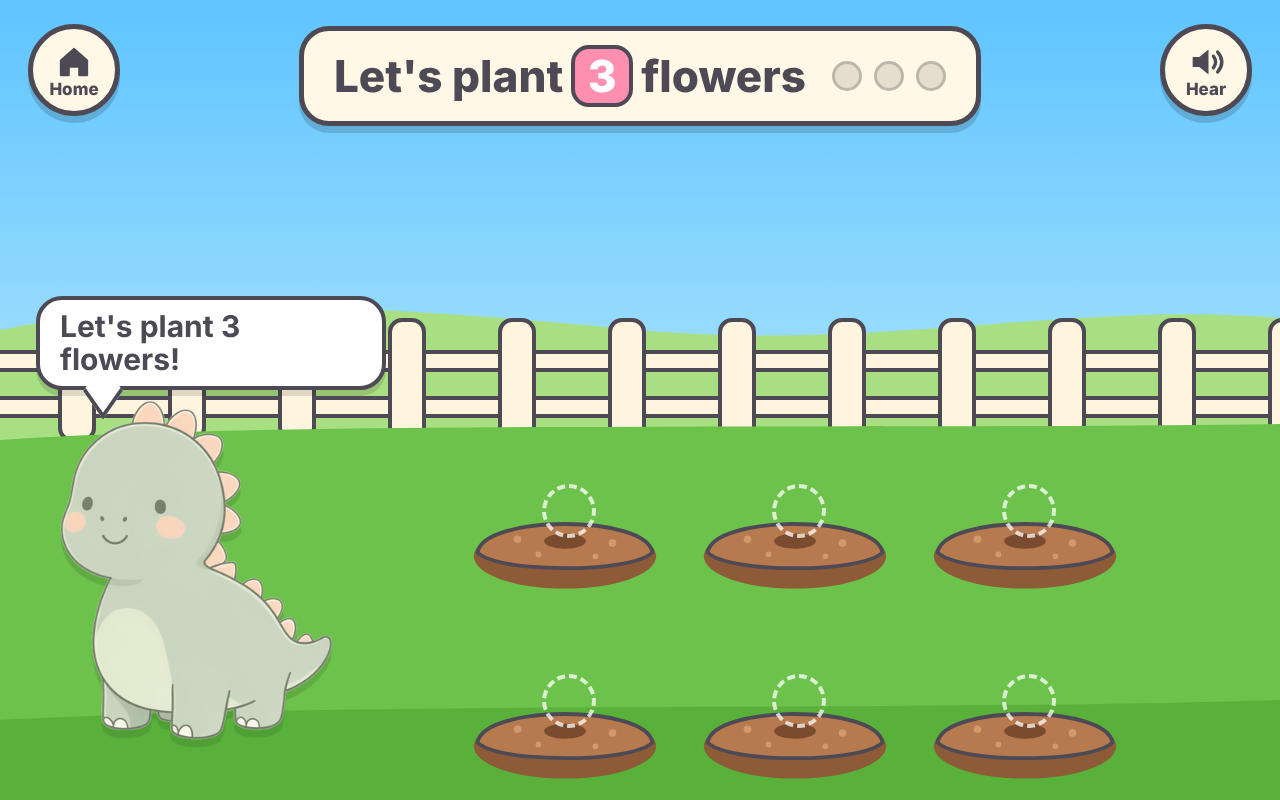
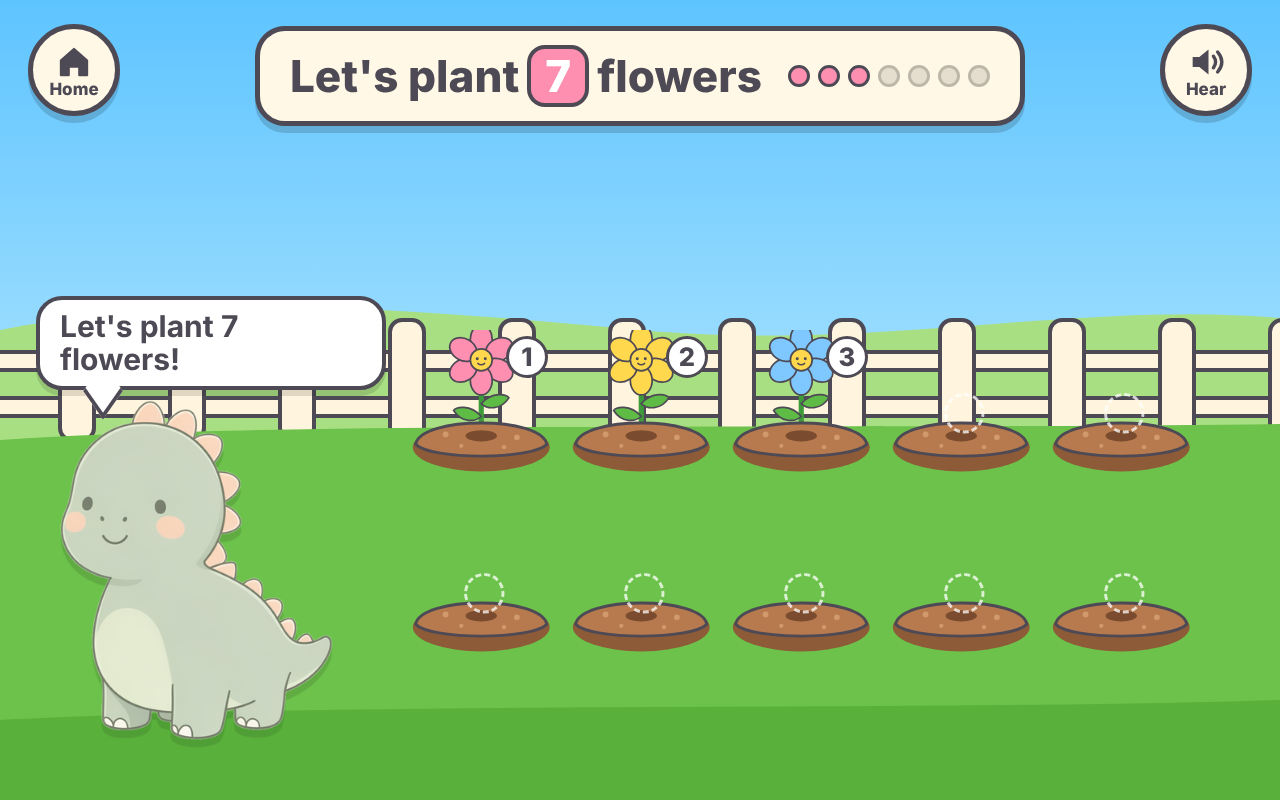
Calm Crew 0.4.0: levels, Pattern Path, Echo Shop recording, new screenshots LJT
Claude-Session: https://claude.ai/code/session_017GQ2EauvXWX61BA2wqAQ97

diff --git a/calm-crew/index.html b/calm-crew/index.html
@@ -30,20 +30,21 @@
     <section class="hero">
       <div class="app-head">
         <img class="app-icon" src="../assets/apps/calm-crew.png" alt="" width="76" height="76">
-        <div><span class="badge">Version 0.3.0 · Android</span></div>
+        <div><span class="badge">Version 0.4.0 · Android</span></div>
       </div>
       <h1>Calm Crew</h1>
-      <p class="lead">A calm, sensory-friendly learning app for children on the autism spectrum, and for any child who likes a calm pace. Pip, Mochi and Tocky guide short activities in counting, spelling, speech, calming down and the day's routine.</p>
+      <p class="lead">A calm, sensory-friendly learning app for children on the autism spectrum, and for any child who likes a calm pace. Pip, Mochi and Tocky guide short activities in counting, patterns, spelling, speech, calming down and the day's routine.</p>
       <div class="buttons">
         <a class="btn primary" href="https://drive.google.com/drive/folders/1st54mq-C1MLj0puG_kujj8EophPT99qO?usp=sharing">Download folder</a>
         <a class="btn" href="changelog.html">What's new</a>
       </div>
-      <p class="muted">Version 0.3.0 is the first test version. Android, made for tablets held sideways · Free, no ads, nothing to buy · No account needed</p>
+      <p class="muted">Version 0.4.0 adds levels, a new Pattern Path and optional recording in the Echo Shop. Android, made for tablets held sideways · Free, no ads, nothing to buy · No account needed</p>
     </section>
 
     <div class="shots" aria-label="Screenshots">
       <img src="screenshots/home.png" alt="The valley: each activity is a place to visit" loading="lazy">
       <img src="screenshots/counting-garden.png" alt="Counting Garden, where Pip plants flowers to count" loading="lazy">
+      <img src="screenshots/pattern-path.png" alt="Pattern Path, where Mochi asks what comes next in a row of shapes" loading="lazy">
       <img src="screenshots/word-treehouse.png" alt="Word Treehouse, spelling a pictured word with letter tiles" loading="lazy">
       <img src="screenshots/echo-shop.png" alt="Tocky's Echo Shop, listening and saying words back" loading="lazy">
       <img src="screenshots/cozy-cave.png" alt="Mochi's Cozy Cave, with a slow breathing bubble" loading="lazy">
@@ -54,14 +55,15 @@
       <h2>What's in the app</h2>
       <p>The home screen is a sunny valley. Each activity is a place; a child taps one to go in. Three friendly characters, all original, host the places and speak in their own voices.</p>
       <div class="features">
-        <div class="card"><h3>Counting Garden <span class="muted">with Pip</span></h3><p>Plant flowers one at a time while Pip counts aloud.</p></div>
-        <div class="card"><h3>Word Treehouse <span class="muted">with Pip</span></h3><p>Tap letters in order to spell a pictured word. A wrong letter just wiggles and waits.</p></div>
-        <div class="card"><h3>Tocky's Echo Shop <span class="muted">with Tocky</span></h3><p>Listen to a word, clap its syllables and say it back, in short rounds of three pictured words. The child taps "I said it!": the app never listens or records.</p></div>
+        <div class="card"><h3>Counting Garden <span class="muted">with Pip</span></h3><p>Plant flowers one at a time while Pip counts aloud: up to 5, 8 or 10, depending on the level.</p></div>
+        <div class="card"><h3>Pattern Path <span class="muted">with Mochi</span></h3><p>Look at a row of shapes and pick what comes next. Every shape has its own color and outline, so it works in Calm mode too. A wrong pick just wiggles and waits.</p></div>
+        <div class="card"><h3>Word Treehouse <span class="muted">with Pip</span></h3><p>Tap letters in order to spell a pictured word, with 3-, 4- or 5-letter words. A wrong letter just wiggles and waits.</p></div>
+        <div class="card"><h3>Tocky's Echo Shop <span class="muted">with Tocky</span></h3><p>Listen to a word, clap its syllables and say it back, in short rounds of three pictured words. If a grown-up turns on the microphone in Settings, the child can record a word and hear it back once. The recording is never saved or sent, and nothing is scored.</p></div>
         <div class="card"><h3>Mochi's Cozy Cave <span class="muted">with Mochi</span></h3><p>A slow breathing bubble, soft bubble popping and gentle rain, for calming down.</p></div>
         <div class="card"><h3>My Day <span class="muted">with Tocky</span></h3><p>A picture schedule with a visual countdown that warns before a change.</p></div>
         <div class="card"><h3>Pip's garden</h3><p>Every finished activity grows a flower in Pip's garden. The reward is always the same and can't be lost, and the child chooses what happens next.</p></div>
         <div class="card"><h3>Character voices</h3><p>Pip, Mochi and Tocky each have their own voice, so the app can be used without reading. Every spoken line ships with the app, so it works offline.</p></div>
-        <div class="card"><h3>Calm mode and parent gate</h3><p>Calm mode softens the colors and turns off movement, except the slow breathing bubble. Settings opens only when a grown-up holds the gear button for 3 seconds.</p></div>
+        <div class="card"><h3>Levels, Calm mode and parent gate</h3><p>A grown-up chooses the level for counting, words and patterns; it never changes by itself. Calm mode softens the colors and turns off movement, except the slow breathing bubble. Settings opens only when a grown-up holds the gear button for 3 seconds.</p></div>
       </div>
     </section>
 
@@ -89,7 +91,7 @@
 
     <section id="privacy">
       <h2>Your data</h2>
-      <p>Calm Crew has no account, no ads, no purchases and no links out, and it makes no network requests. It collects nothing about your child. Settings and Pip's garden are saved only on the device. No microphone, camera or location.</p>
+      <p>Calm Crew has no account, no ads, no purchases and no links out, and it makes no network requests. It collects nothing about your child. Settings and Pip's garden are saved only on the device. The microphone is optional (off until a grown-up turns it on) and recordings are never saved or sent. No camera or location.</p>
       <div class="buttons">
         <a class="btn" href="privacy.html">Privacy policy</a>
       </div>

diff --git a/calm-crew/changelog.html b/calm-crew/changelog.html
@@ -29,6 +29,28 @@
   (<code>calmcrew_&lt;version&gt;.apk</code>). Each version lists its SHA-256 checksum, so you can check
   that your download is the real file.</p>
 
+  <h2 id="v0-4-0">0.4.0 (October 16, 2026)</h2>
+  <p>Download: <code>calmcrew_0.4.0.apk</code> from the <a href="https://drive.google.com/drive/folders/1st54mq-C1MLj0puG_kujj8EophPT99qO?usp=sharing">Google Drive folder</a> · SHA-256 <code>SHA256_PENDING</code></p>
+  <p><strong>Levels, a new place and recording</strong></p>
+  <ul>
+  <li><strong>Pattern Path:</strong> a new place in the valley. Mochi shows a row of shapes and the child picks what comes next, three patterns per round.
+  </li>
+  <li><strong>Levels:</strong> Counting Garden goes up to 5, 8 or 10 flowers, Word Treehouse has 3-, 4- and 5-letter words (14 new words), and Pattern Path has three levels.
+  </li>
+  <li><strong>Hear yourself in the Echo Shop:</strong> with the microphone turned on, the child can record a word and hear it played back once. Nothing is saved, sent or scored.
+  </li>
+  <li><strong>More voices:</strong> 52 new spoken lines, so every new word, number and shape is read aloud.
+  </li>
+  <li><strong>Tidier Counting Garden:</strong> the Next button no longer covers a flower bed.
+  </li></ul>
+  <p><strong>For grown-ups</strong></p>
+  <ul>
+  <li><strong>Levels</strong> for counting, words and patterns are chosen in Settings (hold the gear button for 3 seconds). They start at level 1 and never change by themselves.
+  </li>
+  <li><strong>Echo Shop microphone</strong> is off until you turn it on in Settings; Android then asks for the microphone. See the <a href="privacy.html">privacy policy</a>.
+  </li></ul>
+  <p class="muted">Calm Crew still works fully offline and collects no data. It now asks for vibration and, only if you turn it on, the microphone.</p>
+
   <h2 id="v0-3-0">0.3.0 (October 4, 2026)</h2>
   <p>Download: <code>calmcrew_0.3.0.apk</code> from the <a href="https://drive.google.com/drive/folders/1st54mq-C1MLj0puG_kujj8EophPT99qO?usp=sharing">Google Drive folder</a> · SHA-256 <code>3baa4e966bd5a038158efe50c5cf6da2292ca6acc5026b992d695ea04360d660</code></p>
   <p><strong>The first test version</strong></p>

diff --git a/index.html b/index.html
@@ -100,7 +100,7 @@
           </div>
           <p>A gentle, sensory-friendly app made for children on the autism spectrum, and for any child who likes a calm pace. Pip, Mochi and Tocky guide short activities with their own voices.</p>
           <ul>
-            <li>Counting, spelling, speech, calming down and a picture schedule for the day</li>
+            <li>Counting, patterns, spelling, speech, calming down and a picture schedule for the day, with levels a grown-up can choose</li>
             <li>No timers in the games, no "wrong" sounds, and a Calm mode with softer colors and no movement</li>
             <li>Works offline: no account, no ads, no purchases, and nothing leaves the tablet</li>
           </ul>
@@ -108,7 +108,7 @@
             <a class="btn primary" href="https://drive.google.com/drive/folders/1st54mq-C1MLj0puG_kujj8EophPT99qO?usp=sharing">Download</a>
             <a class="btn" href="calm-crew/">Learn more</a>
           </div>
-          <p class="meta">Version 0.3.0 · Android, made for tablets held sideways · Free, no ads · No account needed</p>
+          <p class="meta">Version 0.4.0 · Android, made for tablets held sideways · Free, no ads · No account needed</p>
         </article>
       </div>
     </section>
